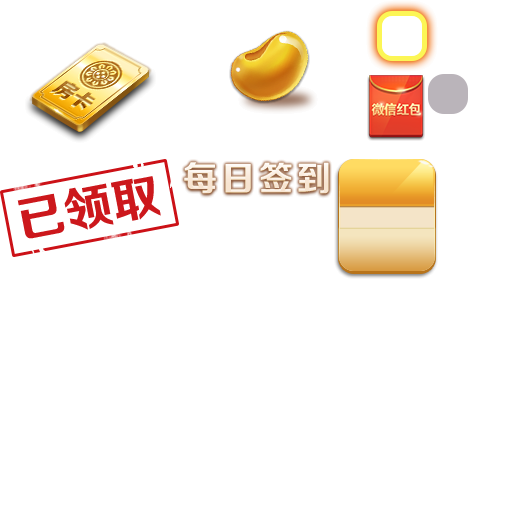
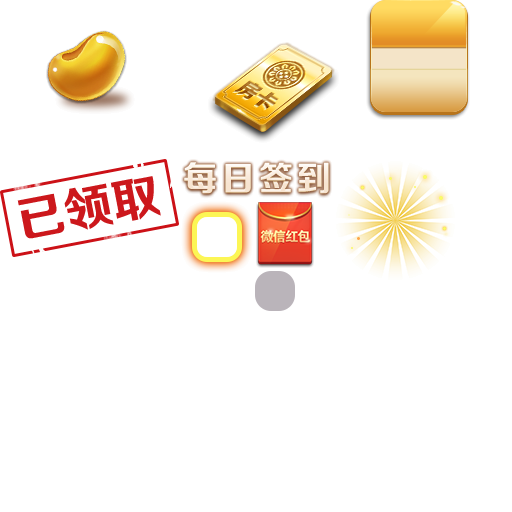
sign view

diff --git a/assets/Script/modules/lobby/views/sign/SignView.ts b/assets/Script/modules/lobby/views/sign/SignView.ts
@@ -19,6 +19,13 @@ const REWARD_NAME: { [key: number]: string } = {
     [proto.casino.eRESOURCE.RESOURCE_CARD]: "房卡"
 };
 
+const REWARD_Y: { [key: number]: number } = {
+    [proto.casino.eRESOURCE.RESOURCE_RED]: 54,
+    [proto.casino.eRESOURCE.RESOURCE_BEANS]: 34,
+    [proto.casino.eRESOURCE.RESOURCE_CARD]: 16
+};
+
+
 /**
  * SignView
  */
@@ -100,7 +107,14 @@ export class SignView extends cc.Component {
                 award = checkinDayData.datas[i].awards[0];
             }
 
+            let y = REWARD_Y[award.id];
+            if (y === undefined) {
+                Logger.error("unknown award, id = ", award.id);
+                y = REWARD_Y[proto.casino.eRESOURCE.RESOURCE_BEANS];
+            }
             const loader = item.getChild("loader").asLoader;
+
+            loader.setPosition(loader.x, y);
             loader.url = REWARD_IMG[award.id];
 
             let awardParam = award.param;
@@ -113,6 +127,7 @@ export class SignView extends cc.Component {
             const light = item.getChild("light");
             const mask = item.getChild("sjgnMask");
             const gray = item.getChild("gray");
+            const guang = item.getChild("guang");
 
             if (param > i) {
                 mask.visible = true;
